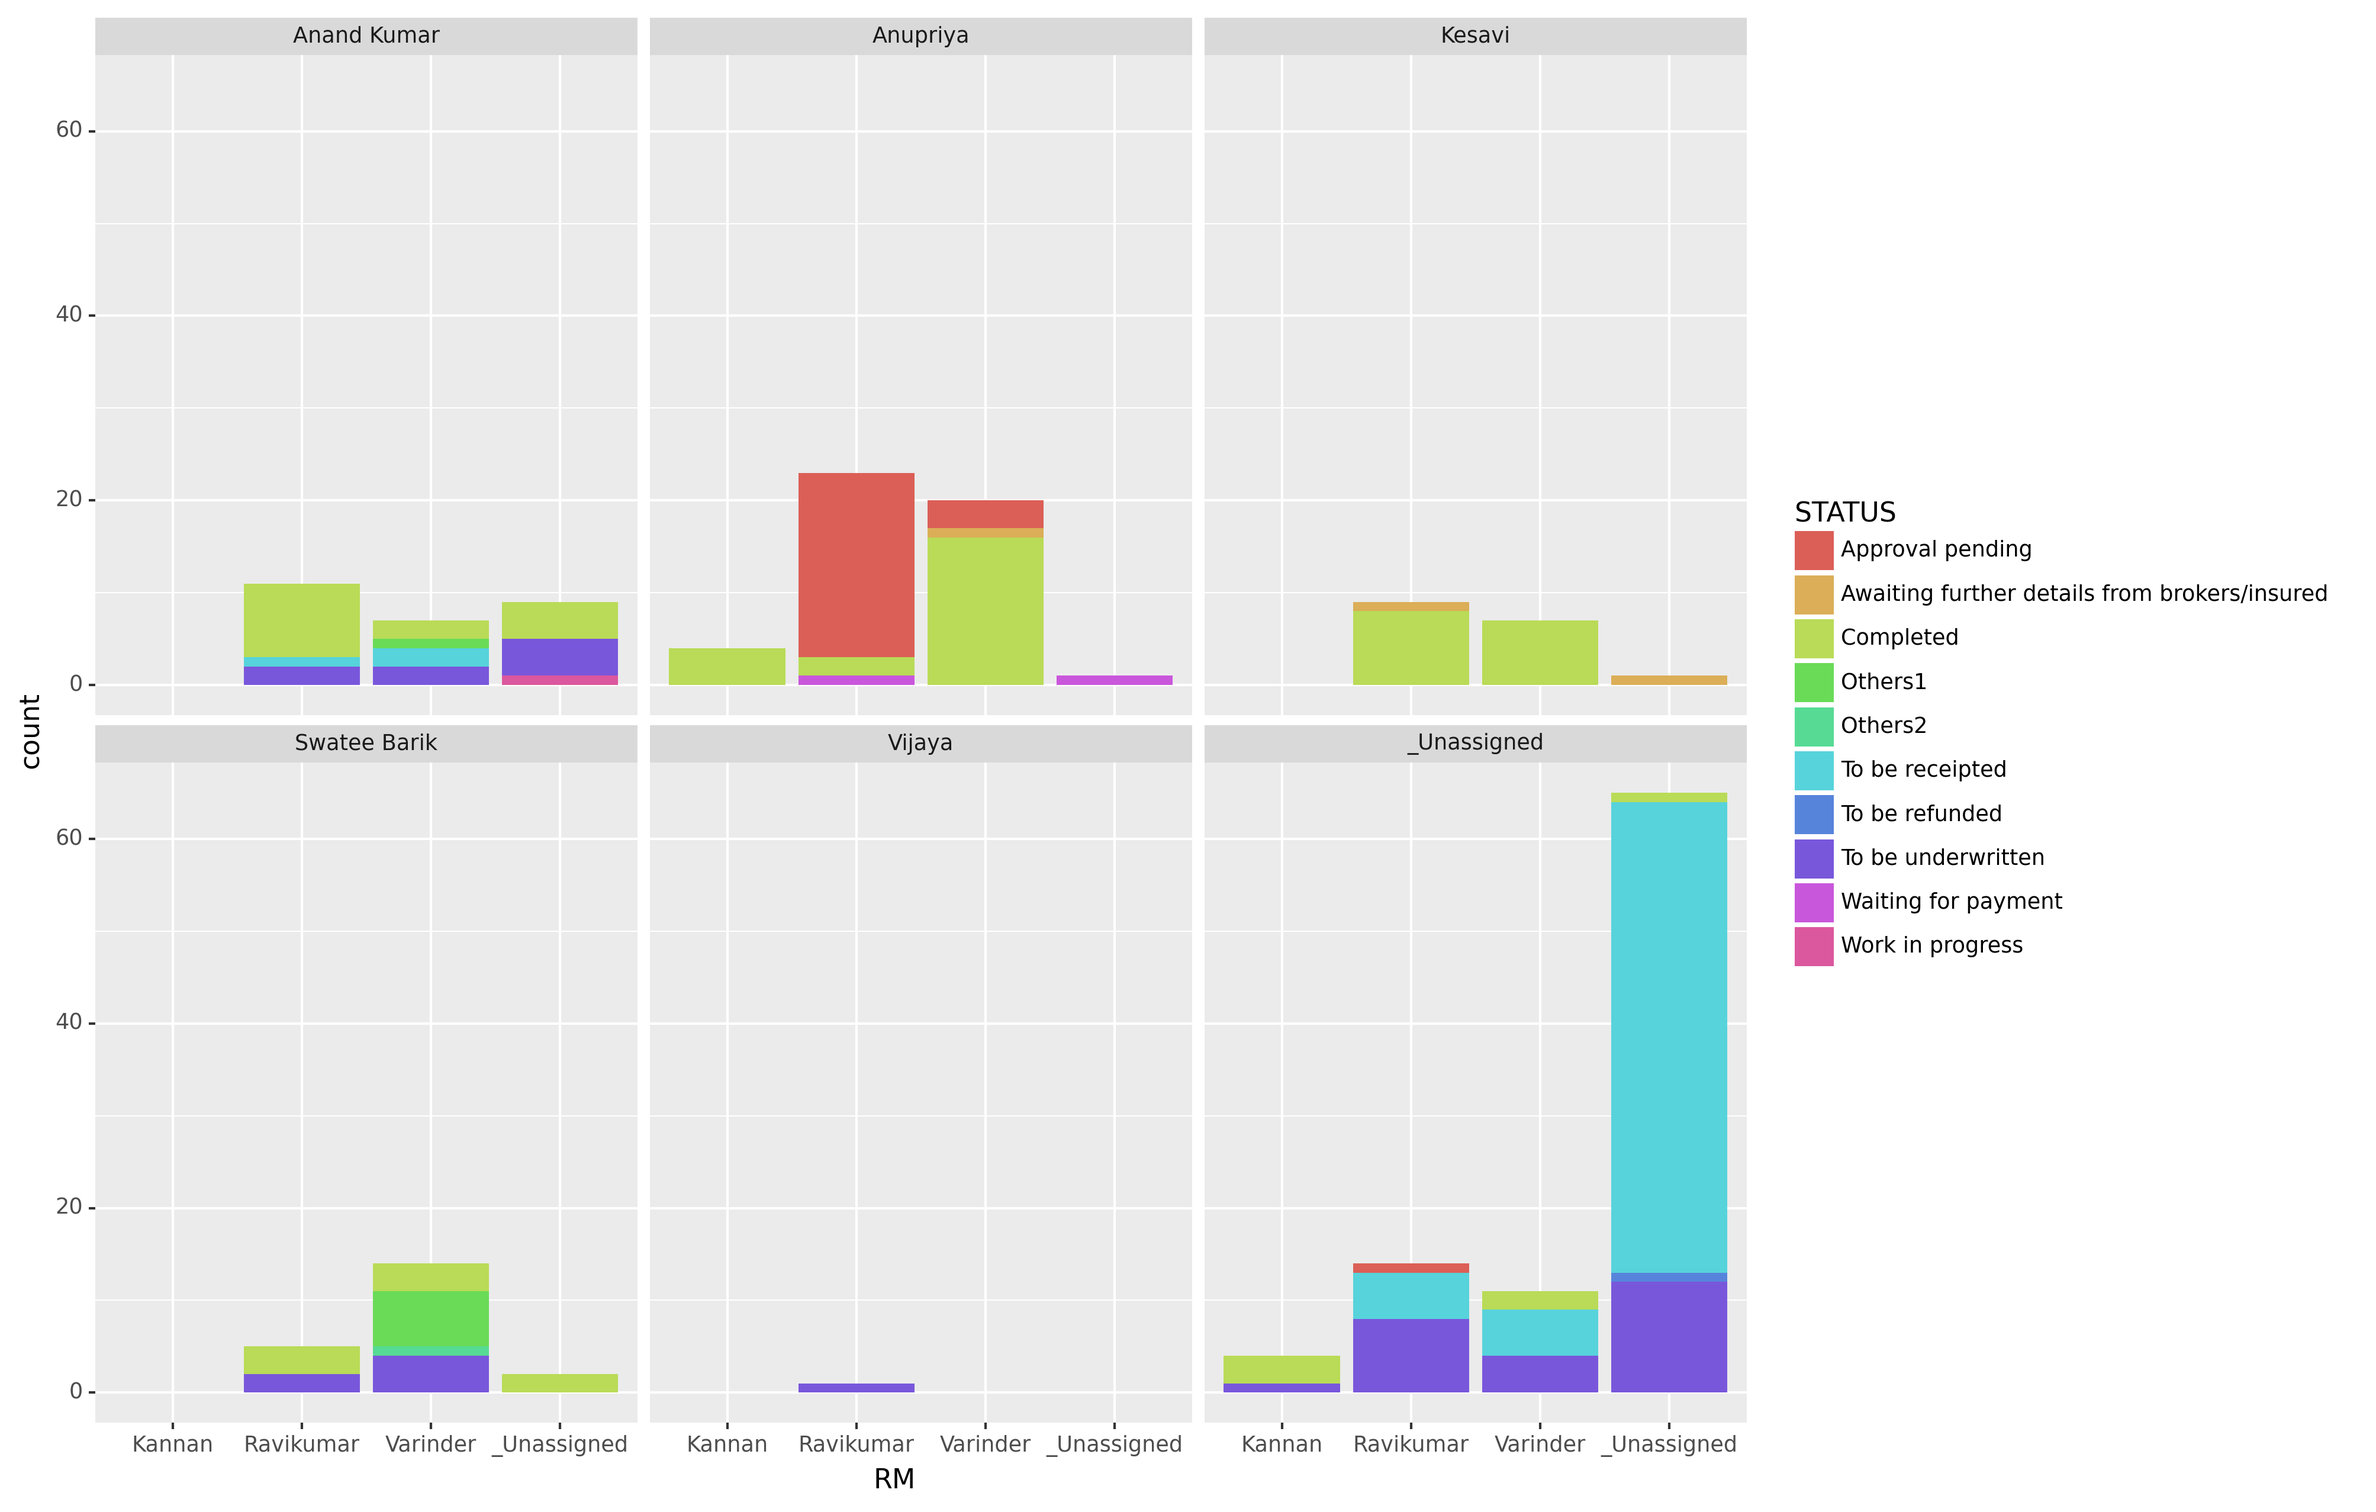
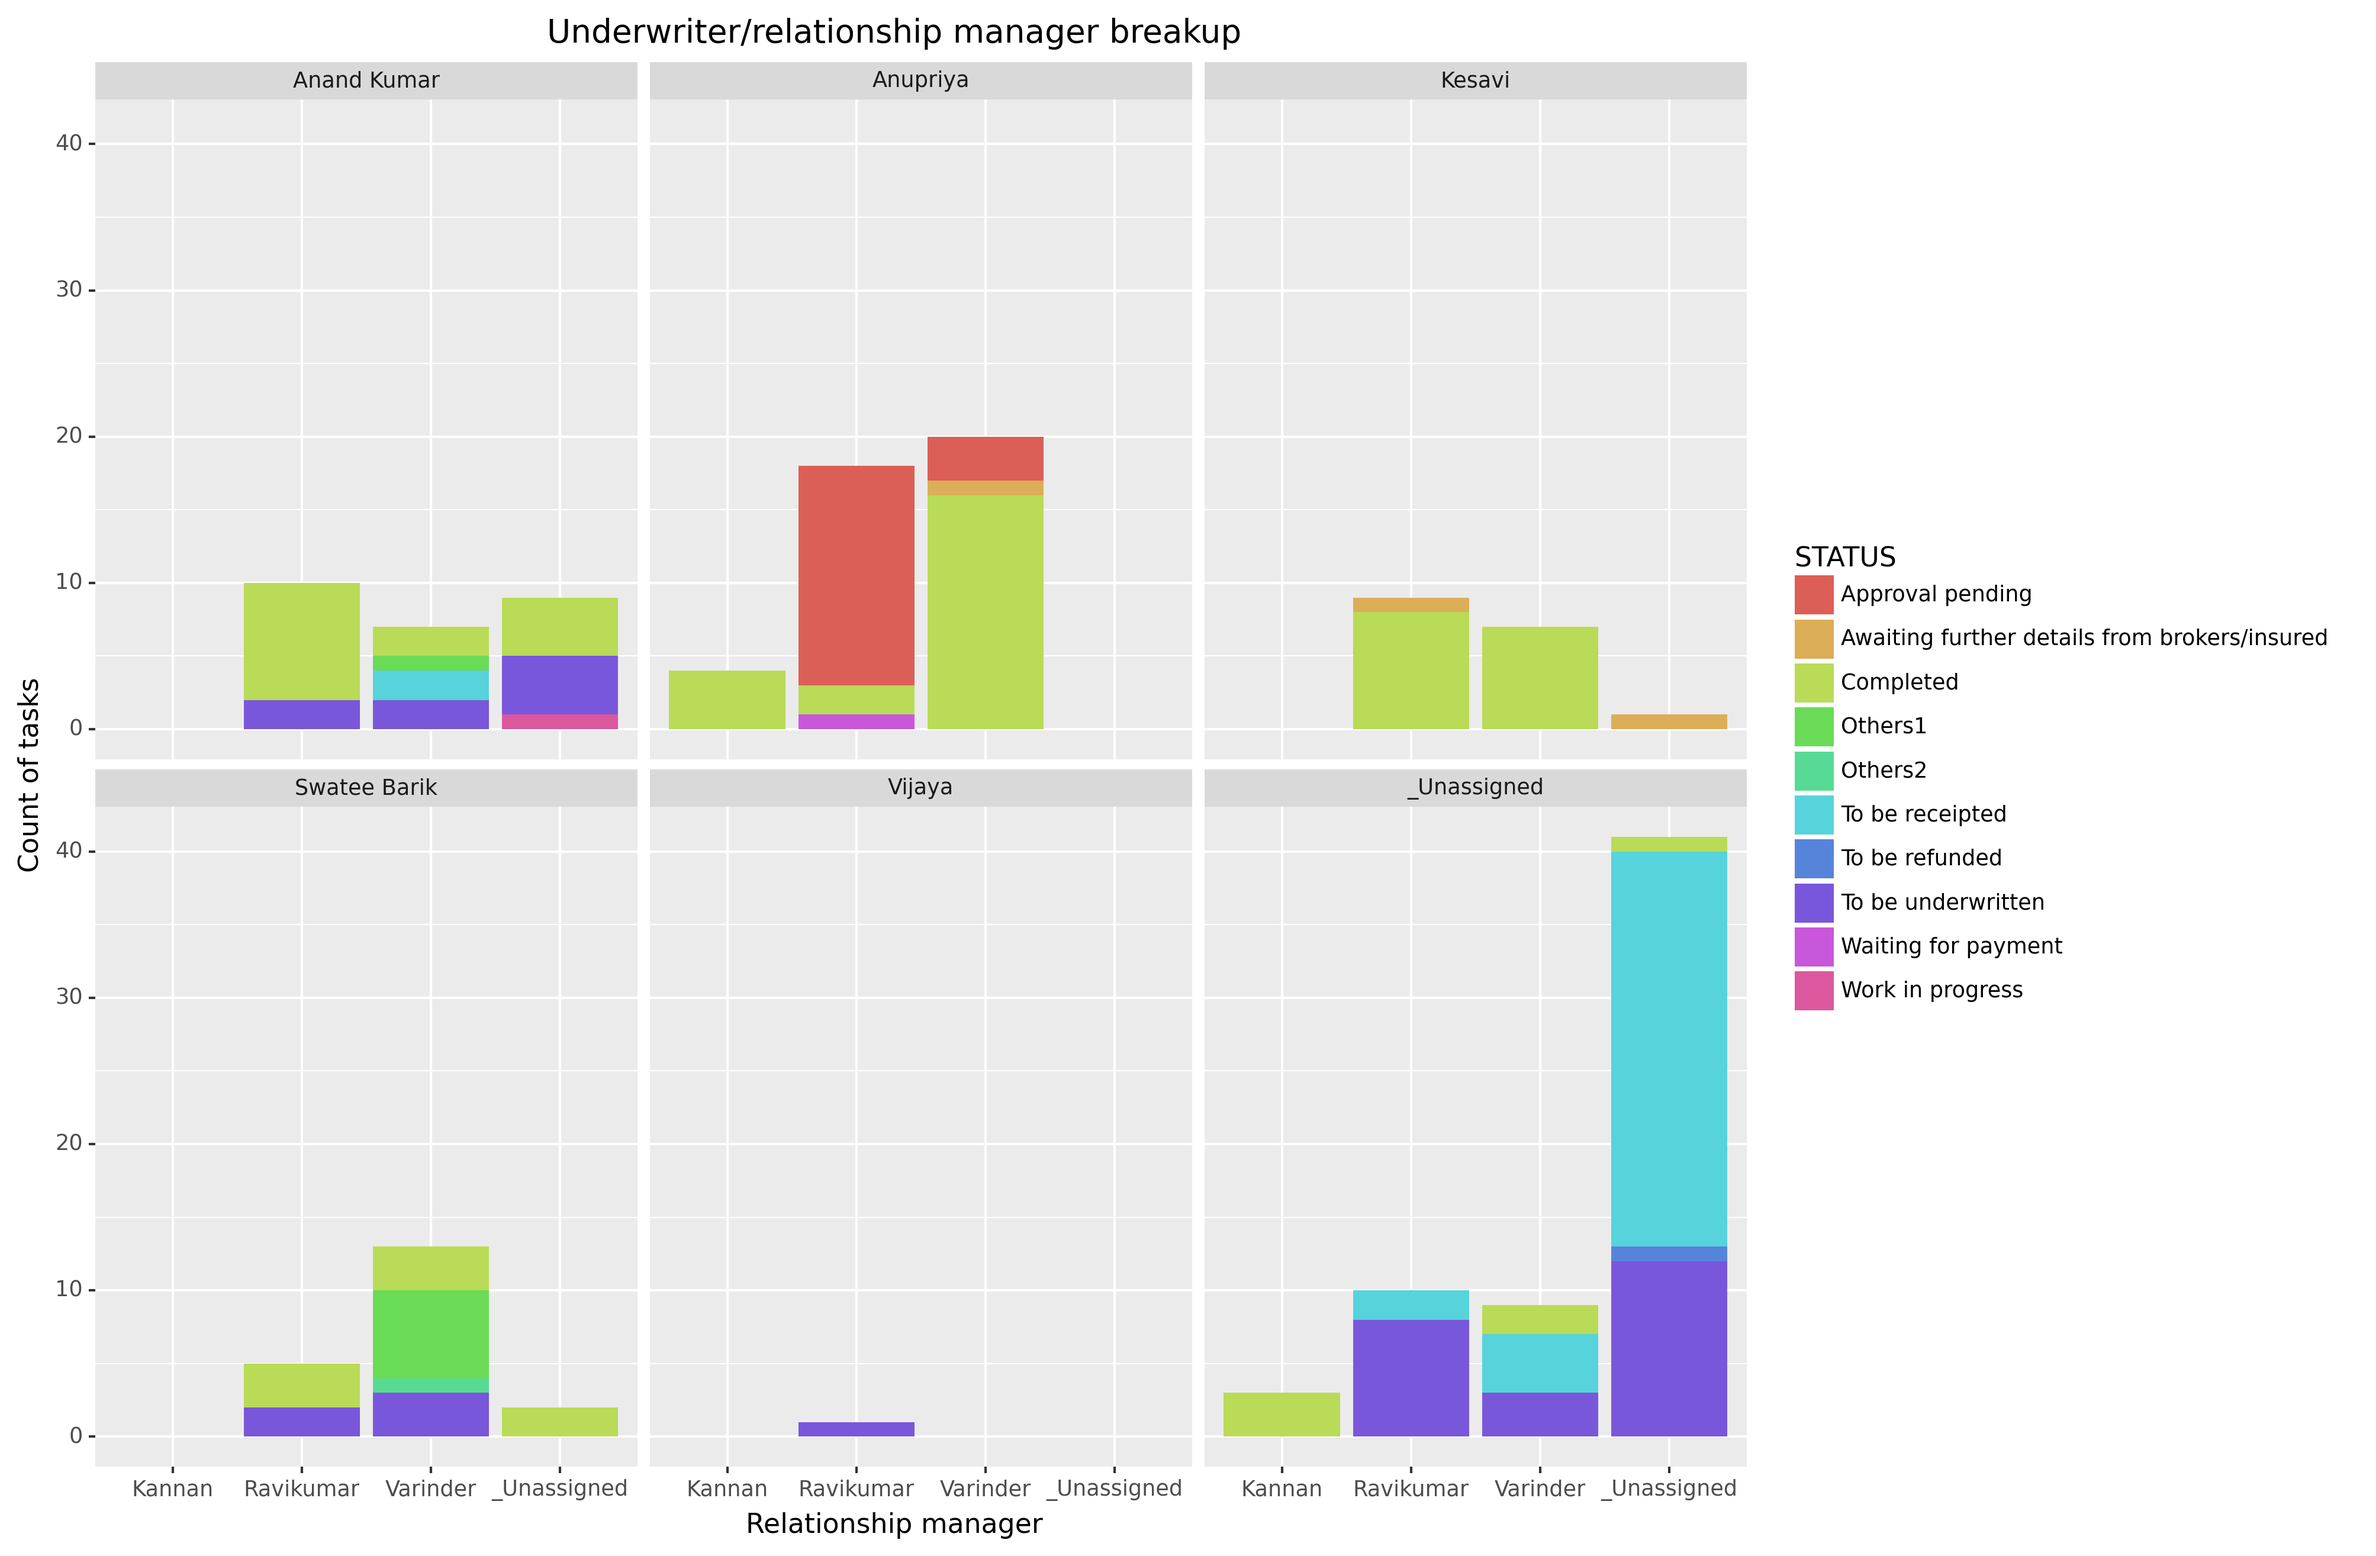
Cleanup home page and fix post method in payments_all

diff --git a/templates/home.html b/templates/home.html
@@ -4,39 +4,36 @@
 
 <section class="hero">
     <div class="hero-body">
-        <div class"container has-text-centered">
+        <div class="container has-text-centered">
 
-        <h1 class="title">Welcome! </h1>
-<h3>LCB Chennai 500200 - payments, receipts, underwriting proposal tracker</h3>
+        <h1 class="title">
+LCB Chennai 500200 - payments, receipts, underwriting proposal tracker</h1>
         </div>
 
-<ol>
-<li>
-                <a class=" is-link" href="{{ url_for('payments_page')}}">Payments to be receipted</a>
-                  </li>
-<li>
-                <a class=" is-link" href="{{ url_for('payments_pending_uw')}}">Pending for underwriting</a>
-    </li>        
-         <li>       <a class=" is-link" href="{{ url_for('payments_completed')}}">Completed tasks</a>
-</li>
-</ol>
 </section>
 
 
-
-     
-
 <a class="button is-link" href="{{url_for('upload')}}">Upload NEFT file</a>
-<a class="button is-link" href="{{ url_for('.payments_all') }}">Download database as Excel file</a>
+<a class="button is-link" href="{{ url_for('.payments_all') }}">Show all transactions</a>
 
-<img src="{{url_for('static',filename='file.png')}}" alt="User Image" />
+<br>
+<br>
+<br>
 
+<div class="has-text-centered">
+    <h3>Status summary - underwriter and relationship manager breakup
+    </h3>
+    </div>
 {% for table in tables %}
 
 {{table|safe}}
 {% endfor %}
 
-  {% block scripts %}
+<br>
+<img src="{{url_for('static',filename='file.png')}}" alt="User Image" />
+</div>
+<hr>
+{% block scripts %}
 
        <script>
             $(document).ready(function () {

diff --git a/views.py b/views.py
@@ -77,7 +77,7 @@ def home_page():
     pivot_data = pd.pivot_table(copy_data, index=['UW','STATUS'],columns=['RM'],values='ID',aggfunc='count')
     pivot_data.fillna(0,inplace=True)
 
-    p = ggplot(data=copy_data) + aes(x="RM",fill="STATUS") + geom_bar()+facet_wrap(['UW'],ncol=3)
+    p = ggplot(data=copy_data) + aes(x="RM",fill="STATUS") + ggtitle("Underwriter/relationship manager breakup")+labs(x="Relationship manager", y="Count of tasks") + geom_bar()+facet_wrap(['UW'],ncol=3)
     ggsave(p,filename='file.png',height=10, width=12,dpi=300,limitsize=False)
 
     shutil.move('file.png','static/file.png')
@@ -110,6 +110,14 @@ def payments_all():
     if request.method == "GET":
         payments = db.get_payments()
         return render_template("payments_all.html",payments=sorted(payments))
+
+    else:
+        if not current_user.is_admin:
+            abort(401)
+        form_payment_keys = request.form.getlist("payment_keys")
+        for form_payment_key in form_payment_keys:
+            db.delete_payment(int(form_payment_key))
+        return redirect(url_for("payments_all"))
 
 def payments_completed():
     db = current_app.config["db"]

diff --git a/server.py b/server.py
@@ -34,7 +34,7 @@ def create_app():
     app.add_url_rule("/logout", view_func=views.logout_page)
     app.add_url_rule("/download",view_func=views.download,methods=["GET","POST"])
     app.add_url_rule("/upload",view_func=views.upload,methods=["GET","POST"])
-    app.add_url_rule("/all",view_func=views.payments_all,methods=["GET"])
+    app.add_url_rule("/all",view_func=views.payments_all,methods=["GET","POST"])
     app.add_url_rule("/cd_list",view_func=views.cd_list,methods=['GET'])
     app.add_url_rule("/pending_scroll",view_func=views.pending_scroll_list,methods=['GET'])
     app.add_url_rule("/payments_pending_uw", view_func=views.payments_pending_uw,methods=["GET","POST"])

diff --git a/sqlite_excel.py b/sqlite_excel.py
@@ -76,7 +76,7 @@ def convert_input(upload_file):
             print(df_upload)
             CHAT_ID = telegram_secrets.CHAT_ID
             SEND_URL = telegram_secrets.SEND_URL
-            df_upload.to_excel("file.xlsx",index=False)
+#            df_upload.to_excel("file.xlsx",index=False)
             for i in range(len(df_upload)):
                 title = df_upload.iloc[i,0]
                 string_date = df_upload.iloc[i,1]
